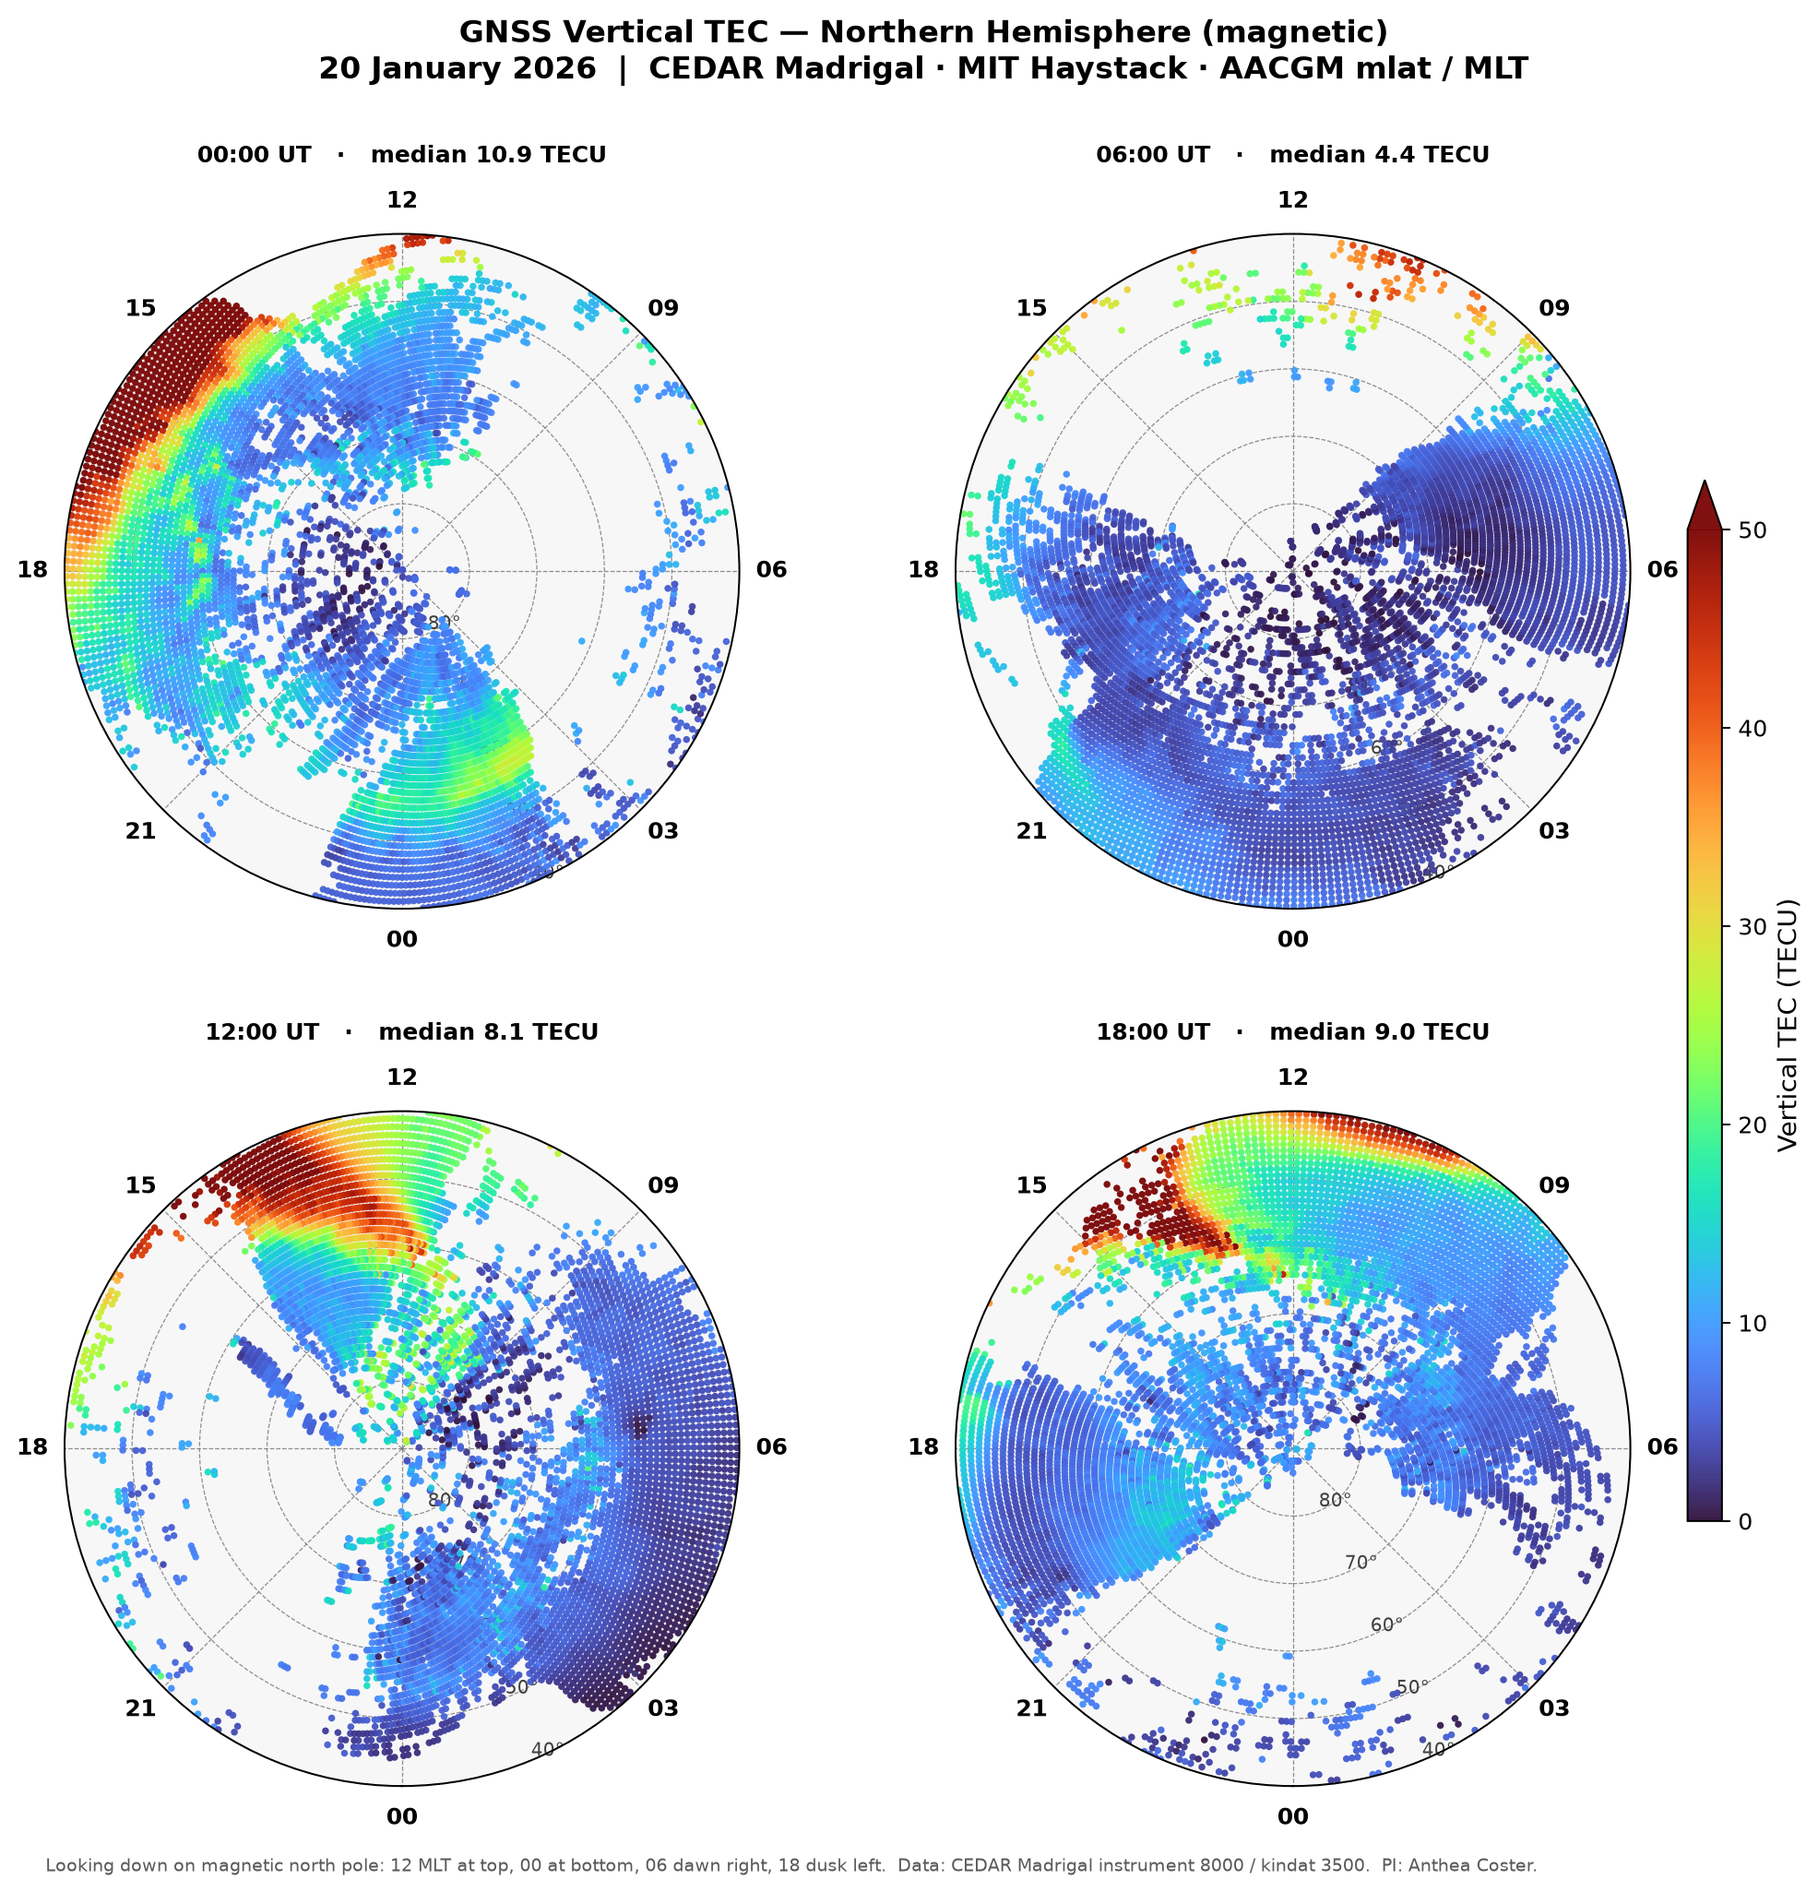
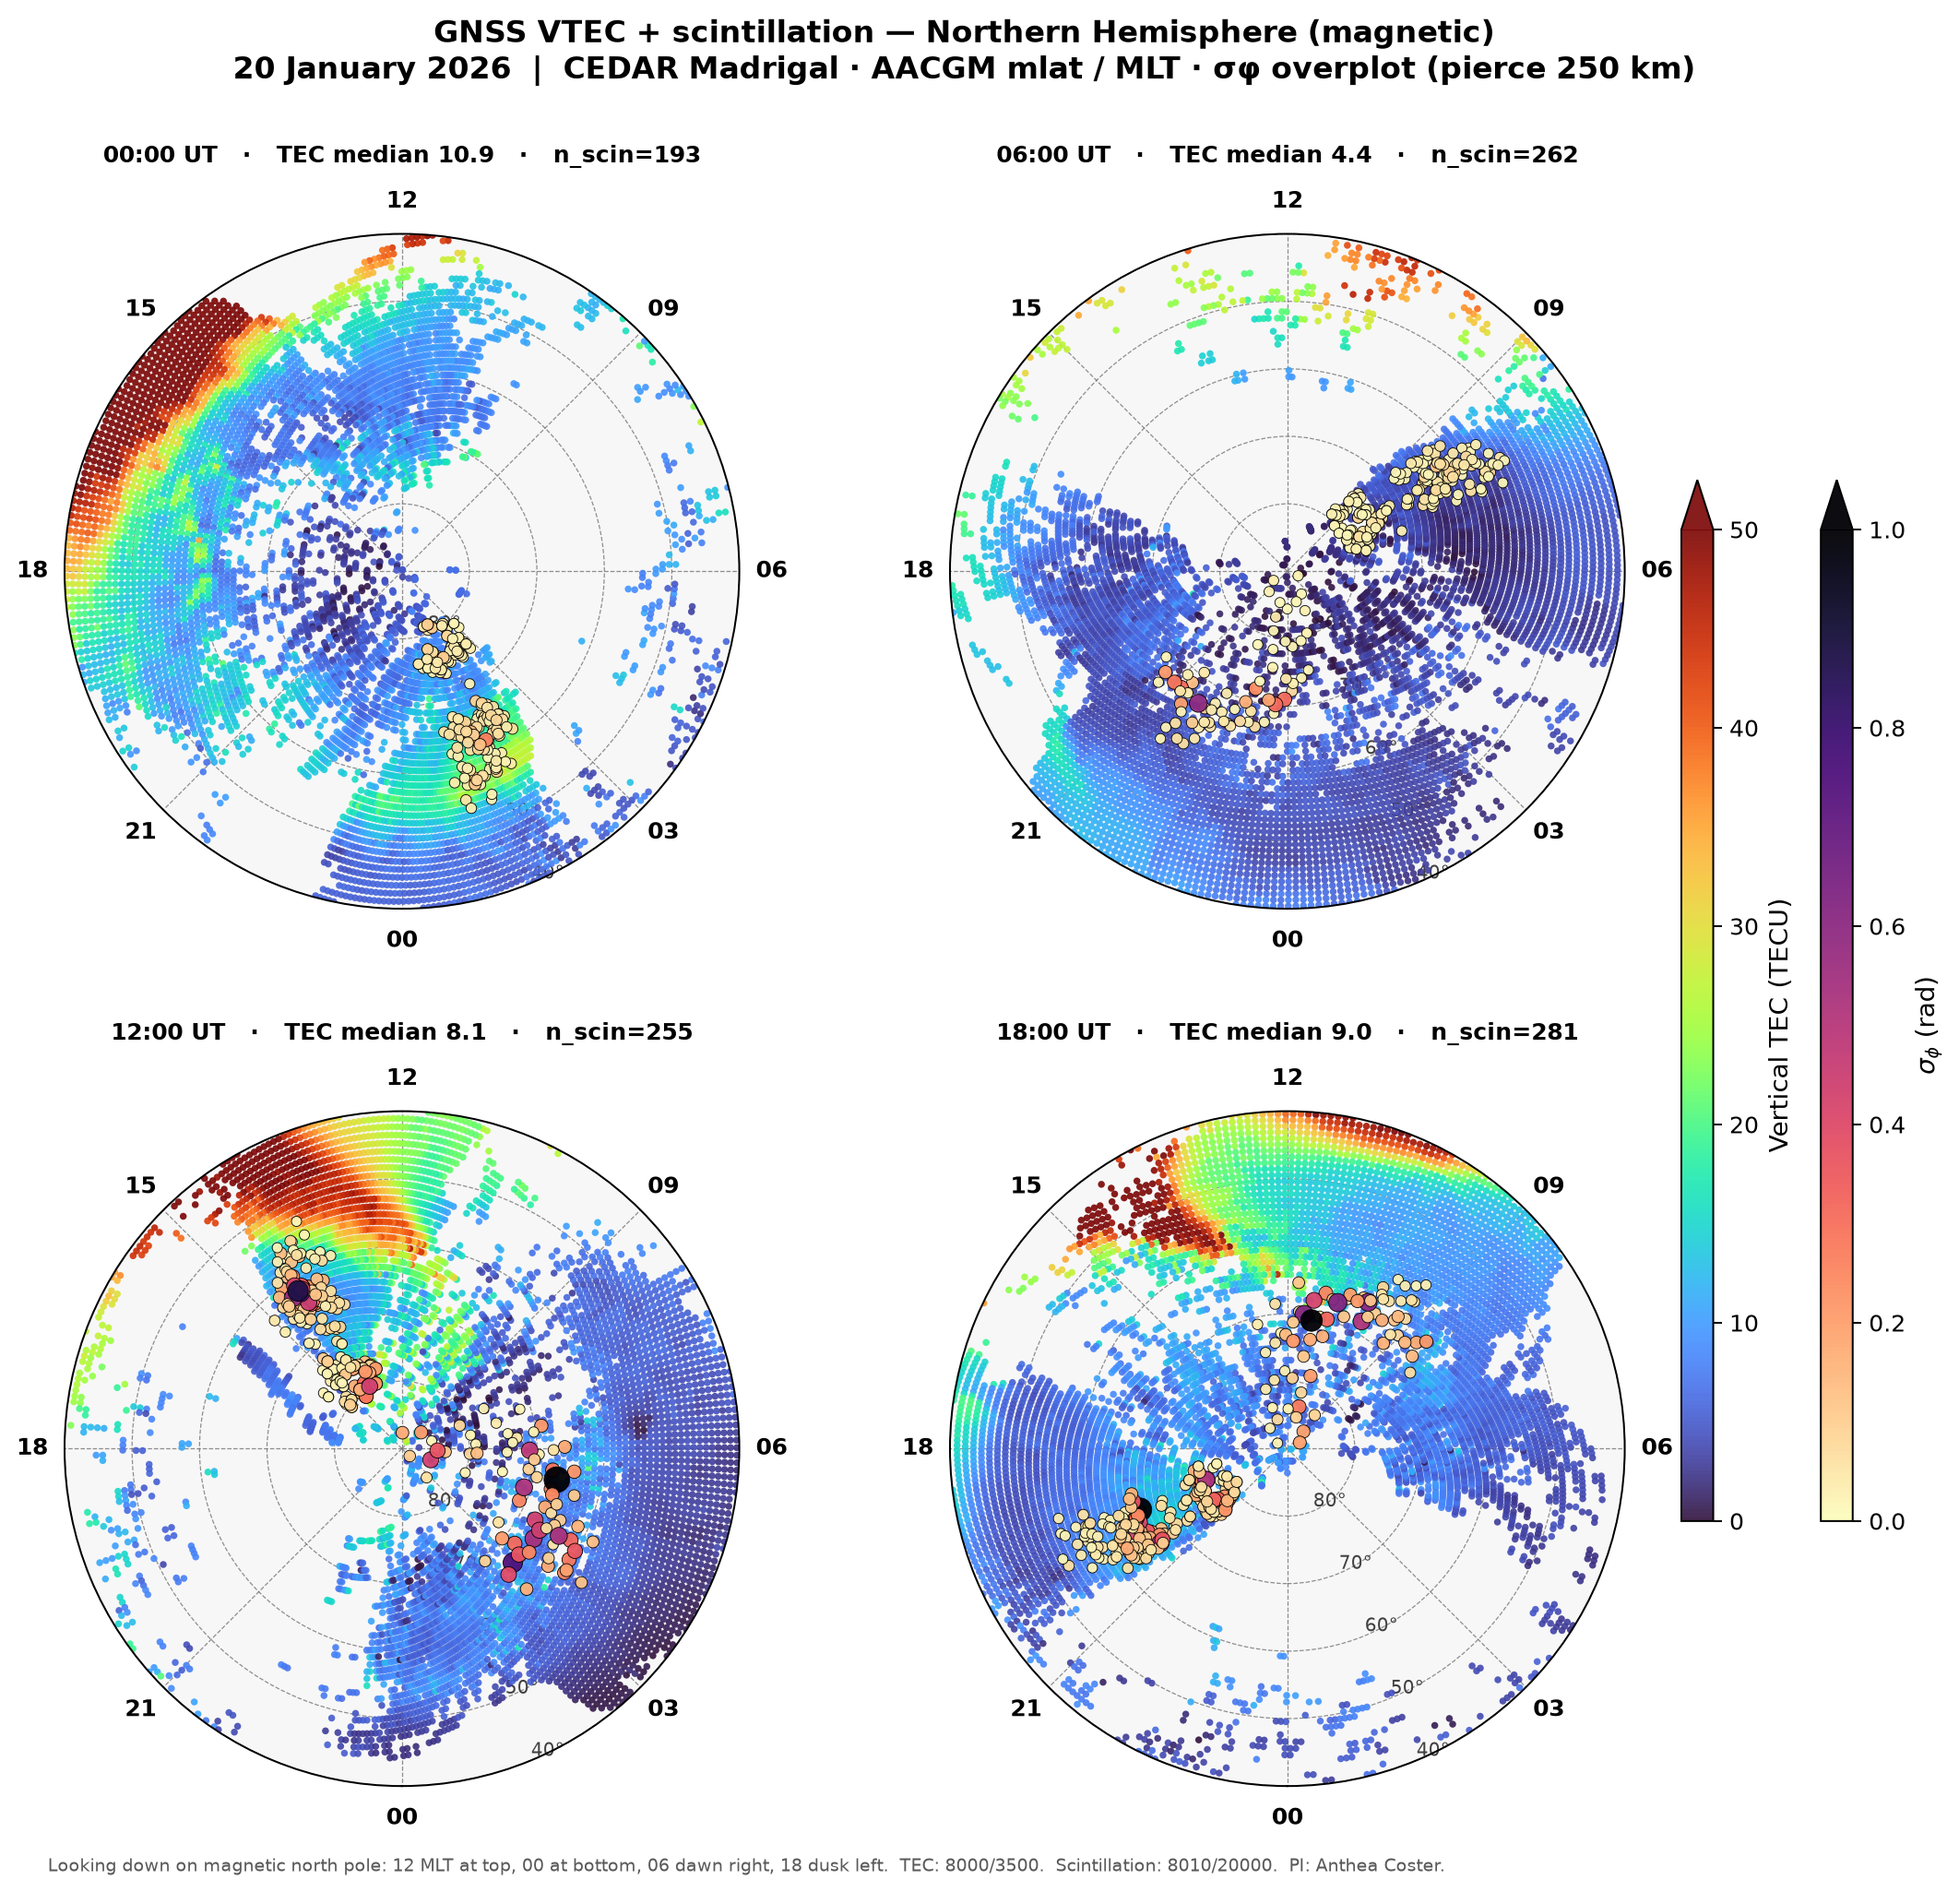
Regenerate NH polar TEC figures with scintillation σφ overlay
Drop failed AACGM conversions, wrap MLT to [0,24), and refresh the
20 January 2026 polar maps with Madrigal scintillation pierce points.

diff --git a/plot_nh_polar_tec.py b/plot_nh_polar_tec.py
@@ -315,12 +315,20 @@ def add_magnetic_coordinates(df: pd.DataFrame, height_km: float = SCIN_HEIGHT_KM
         mlat, mlon, _ = aacgmv2.convert_latlon_arr(
             lats, lons, height_km, timestamp_dt, method_code="G2A"
         )
-        mlt = aacgmv2.convert_mlt(mlon, timestamp_dt, m2a=False)
+        mlt = np.asarray(
+            aacgmv2.convert_mlt(mlon, timestamp_dt, m2a=False), dtype=np.float64
+        )
+        mlt = np.mod(mlt, 24.0)
         out.loc[mask, "mlat"] = np.asarray(mlat, dtype=np.float64)
         out.loc[mask, "mlon"] = np.asarray(mlon, dtype=np.float64)
-        out.loc[mask, "mlt"] = np.asarray(mlt, dtype=np.float64)
+        out.loc[mask, "mlt"] = mlt
 
-    print("Magnetic coordinate conversion complete")
+    before = len(out)
+    out = out[np.isfinite(out["mlat"]) & np.isfinite(out["mlt"])].reset_index(drop=True)
+    print(
+        f"Magnetic coordinate conversion complete "
+        f"(kept {len(out)} / {before} finite AACGM points)"
+    )
     return out
 
 

diff --git a/test_plot_nh_polar_tec.py b/test_plot_nh_polar_tec.py
@@ -68,8 +68,9 @@ def test_scintillation_magnetic_overlay(scin_path: Path) -> None:
     )
     assert len(scin) > 0
     assert {"mlat", "mlon", "mlt", "sigma_phi", "s4", "site"}.issubset(scin.columns)
-    assert scin["mlat"].notna().any()
-    assert scin["mlt"].between(0.0, 24.0).all()
+    assert scin["mlat"].notna().all()
+    assert scin["mlt"].notna().all()
+    assert ((scin["mlt"] >= 0.0) & (scin["mlt"] < 24.0)).all()
 
     when = dt.datetime(2026, 1, 20, 20, 0, tzinfo=dt.timezone.utc)
     slc = tec.select_scintillation_slice(scin, when, mlat_outer=tec.MLAT_OUTER)
